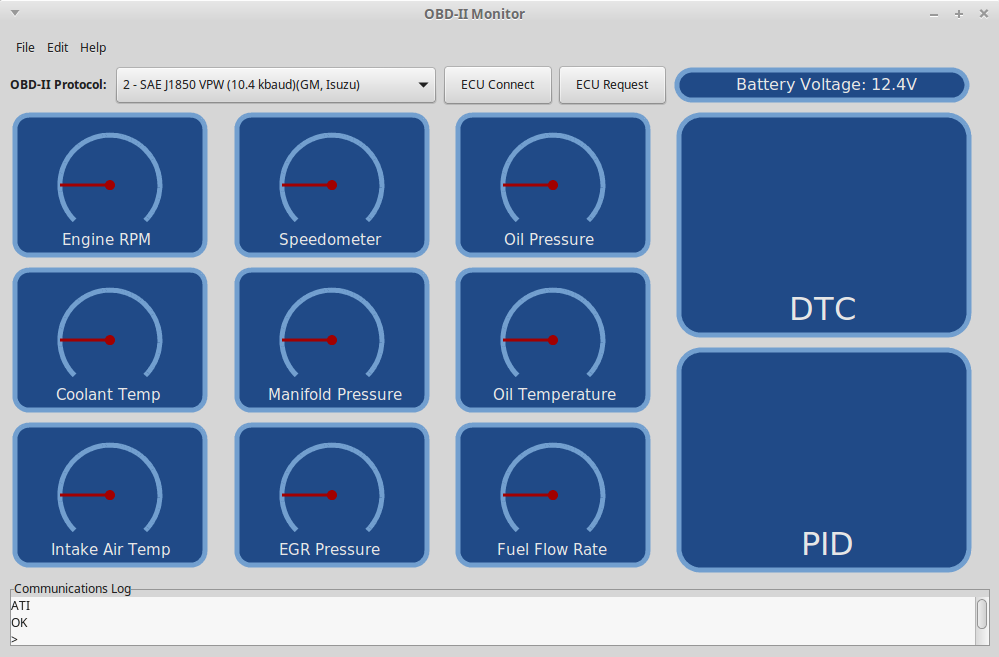
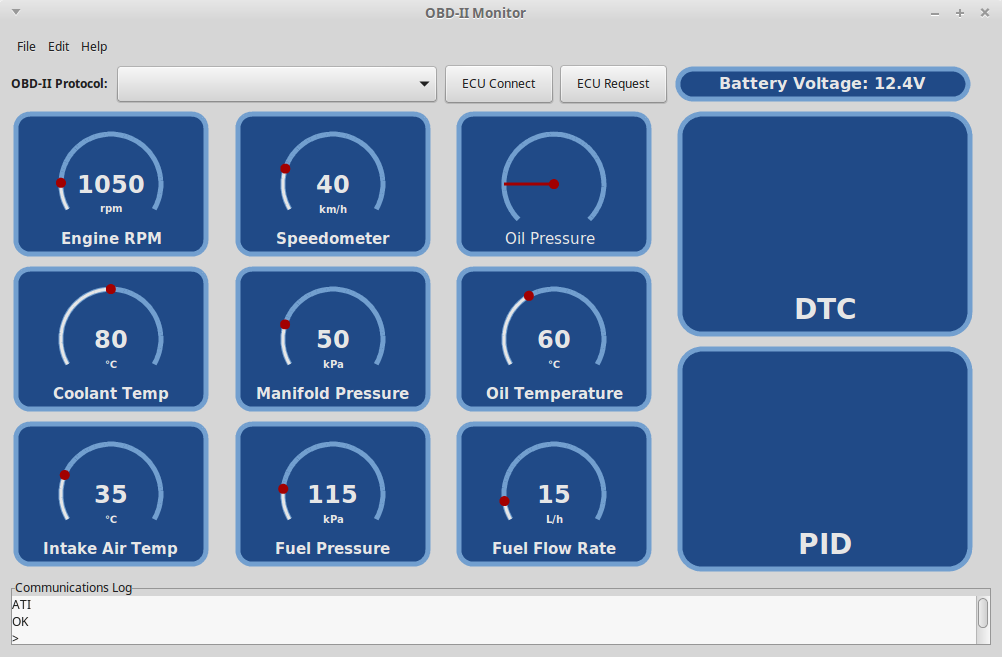
Protocol Module Updates.

diff --git a/src/protocols.c b/src/protocols.c
@@ -97,8 +97,6 @@ void log_ecu_parameters()
 
 void set_engine_rpm(char *rpm_msg)
 {
-   char buf[16];
-   char *cptr;
    unsigned int pmode, pid, pa, pb;
 
    if (sscanf(rpm_msg, "%x %x %x %x", &pmode, &pid, &pa, &pb) == 4)
@@ -122,12 +120,24 @@ double get_engine_rpm()
 
 void set_coolant_temperature(char *ctemp_msg)
 {
+   unsigned int pmode, pid, pa;
 
+   if (sscanf(ctemp_msg, "%x %x %x", &pmode, &pid, &pa) == 3)
+   {
+      printf("ECT Msg: %d %d %d\n", pmode, pid, pa); 
+      ecup.ecu_coolant_temperature = ((double)pa - 40.0);
+      /* ECU rpm parameter is in quarters of a revolution. */
+   }
+   else
+   {
+      ecup.ecu_coolant_temperature = 0.0;
+   }
+   return;
 }
 
 double get_coolant_temperature()
 {
-
+   return(ecup.ecu_coolant_temperature);
 }
 
 void set_manifold_pressure(char *manap_msg)
@@ -142,12 +152,24 @@ double get_manifold_pressure()
 
 void set_intake_air_temperature(char *atemp_msg)
 {
+   unsigned int pmode, pid, pa;
 
+   if (sscanf(atemp_msg, "%x %x %x", &pmode, &pid, &pa) == 3)
+   {
+      printf("IAT Msg: %d %d %d\n", pmode, pid, pa); 
+      ecup.ecu_intake_air_temperature = ((double)pa - 40.0);
+      /* ECU rpm parameter is in quarters of a revolution. */
+   }
+   else
+   {
+      ecup.ecu_intake_air_temperature = 0.0;
+   }
+   return;
 }
 
 double get_intake_air_temperature()
 {
-
+   return(ecup.ecu_intake_air_temperature);
 }
 
 void set_battery_voltage(char *bv_msg)
@@ -182,7 +204,18 @@ double get_egr_pressure()
 
 void set_oil_temperature(char *otemp_msg)
 {
+   unsigned int pmode, pid, pa;
 
+   if (sscanf(otemp_msg, "%x %x %x", &pmode, &pid, &pa) == 3)
+   {
+      printf("Oil Temperature Msg: %d %d %d\n", pmode, pid, pa); 
+      ecup.ecu_oil_temperature = ((double)pa - 40.0);
+   }
+   else
+   {
+      ecup.ecu_oil_temperature = 0.0;
+   }
+   return;
 }
 
 double get_oil_temperature()
@@ -202,7 +235,38 @@ double get_oil_pressure()
 
 void parse_mode_01_msg(char *obd_msg)
 {
-   /* Decode ECU parameter message. */
+   /* Decode ECU Mode 01 parameter message. */
+   unsigned int pmode, pid;
+   char header[16];
+   
+   memset(header, 0, 16);
+   strncpy(header, obd_msg, 5);
+   
+   if (sscanf(header, "%x %x", &pmode, &pid) == 2)
+   {
+      switch(pid)
+      {
+         case 0: break; /* TODO: Supported PIDs. */
+         case 5: set_coolant_temperature(obd_msg); break; /*  */
+         case 10: break;
+         case 11: break; /* Throttle Position. */
+         case 12: set_engine_rpm(obd_msg); break;
+         case 13: break;
+         case 14: break;
+         case 15: set_intake_air_temperature(obd_msg); break;
+         case 17: break;
+         case 47: break; /* Fuel Tank Level. */
+         case 92: set_oil_temperature(obd_msg); break;
+      }
+
+   }
+   else
+   {
+      /* TODO: log error message. */
+   }   
+
+   
+   return;
 }
 
 void parse_mode_03_msg(char *obd_msg)

diff --git a/src/protocols.h b/src/protocols.h
@@ -36,6 +36,11 @@ struct _ECU_Parameters {
    double ecu_oil_pressure;
    double ecu_egr_pressure;
    double ecu_battery_voltage;
+   double ecu_throttle_position;
+   double ecu_oil_temperature;
+   double ecu_accelerator_position;
+   double ecu_fuel_pressure;
+   double ecu_fuel_flow_rate;
    char ecu_vin[256];
 };
 

diff --git a/README.md b/README.md
@@ -121,11 +121,11 @@ The SAE J1979 standard currently defines ten possible diagnostic test modes:
     
     5E    2            0           3276.75     (256 * A + B) / 20 (Fuel Flow Rate L/h)
     
-    (Oil Pressure?)
+    (Oil Pressure - hidden in manufacturer proprietary codes. Mode 22 - GM, Mode 21 - Toyota)
     
-    (EGR Pressure?)
+    (EGR Pressure - hidden in manufacturer proprietary codes.)
     
-    (Accelerator Position)
+
 
 #### Selected ECU Mode 09 Parameters:
  
@@ -134,6 +134,7 @@ The SAE J1979 standard currently defines ten possible diagnostic test modes:
     02    17           VIN - Vehicle Identification Number
     
     0A    20           ECU Name
+    
  
 ## 5. Hardware Interfaces
  
